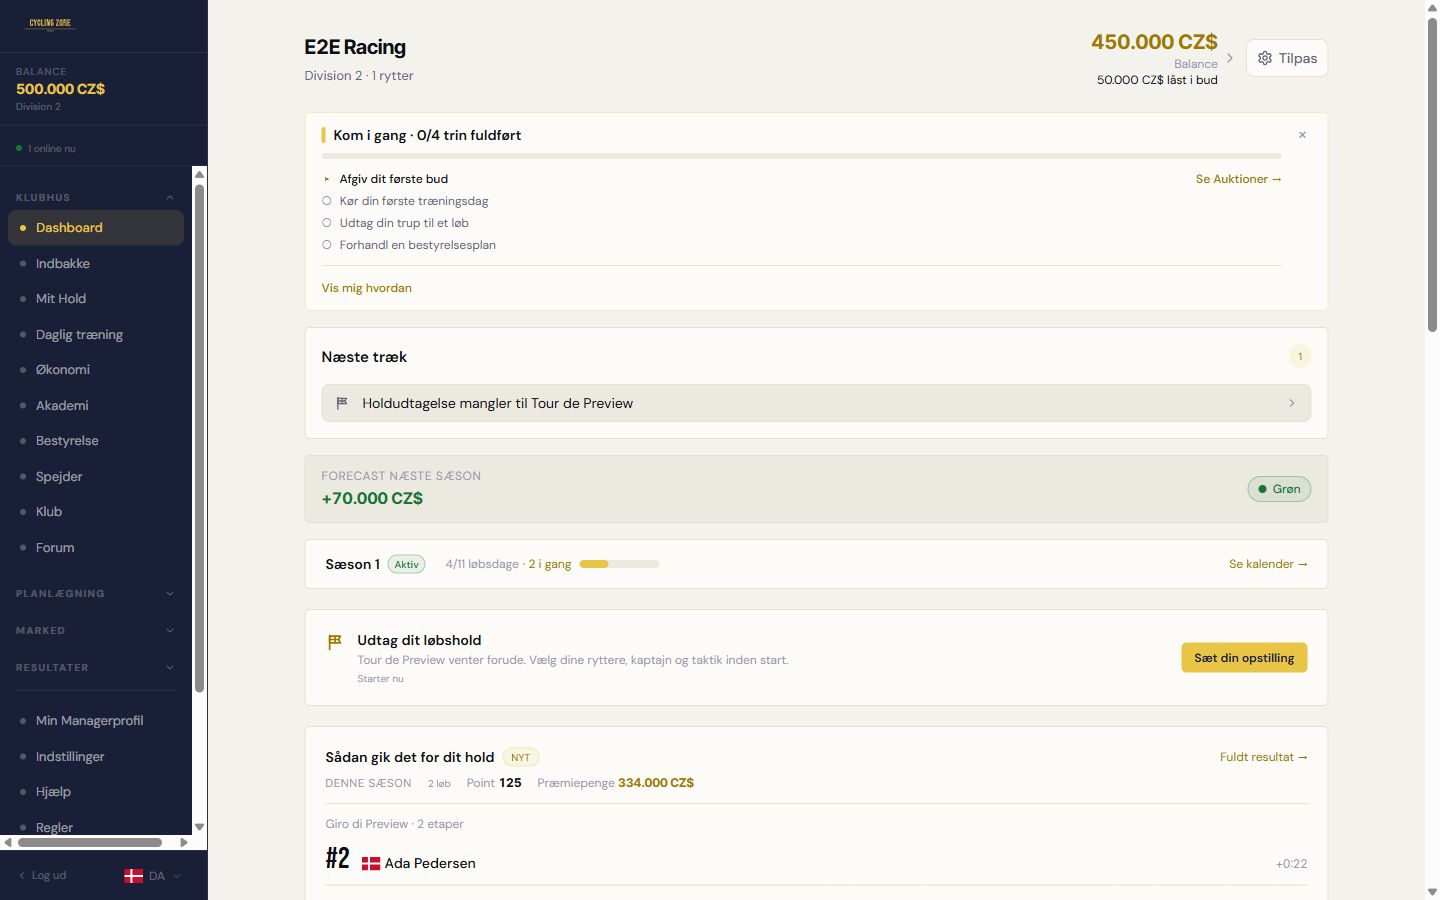
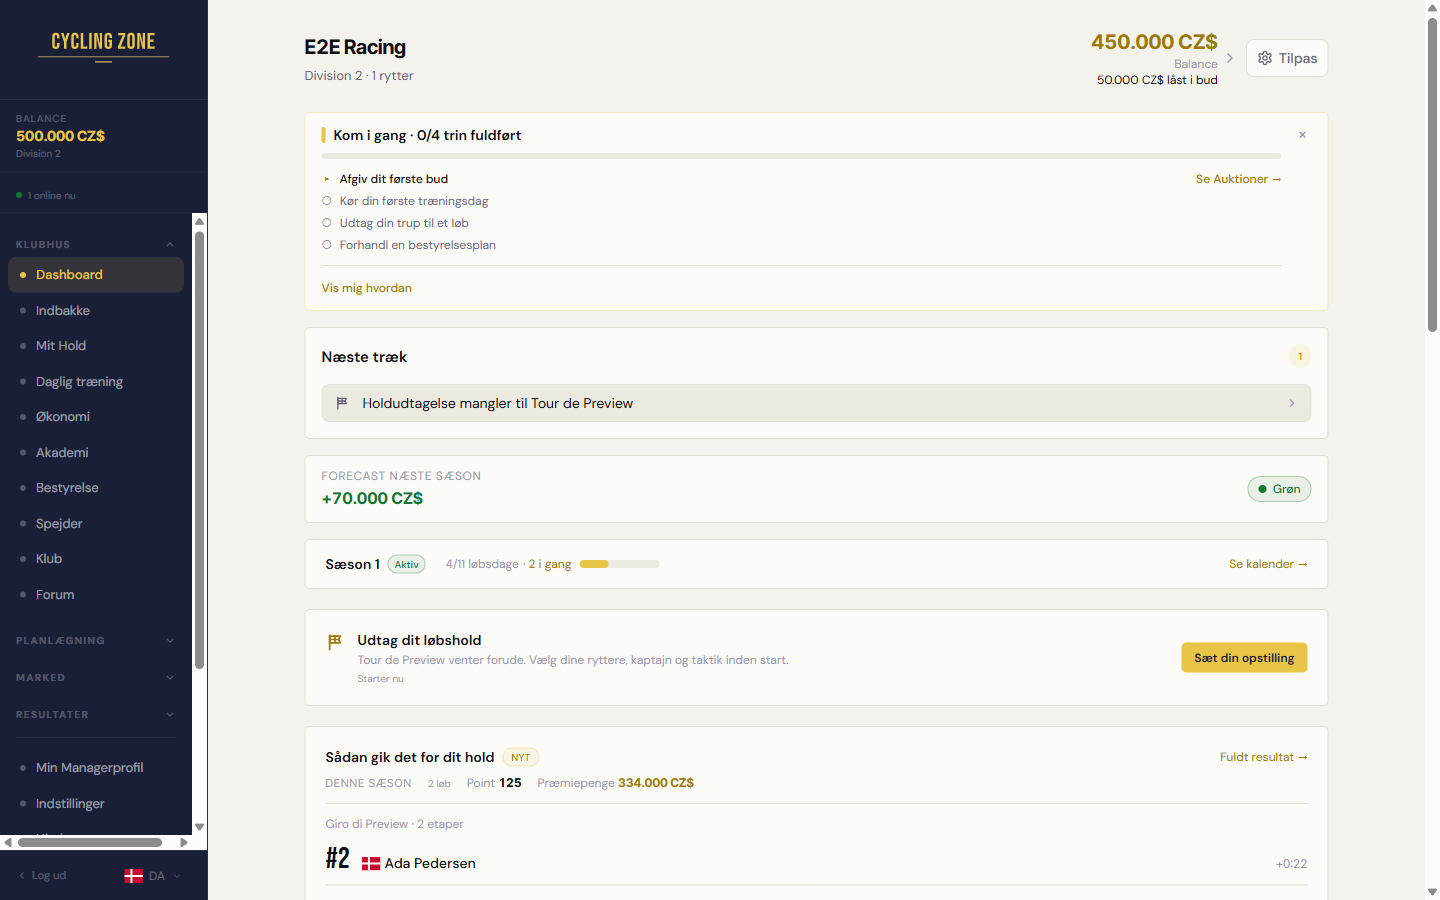
fix(sidebar): skalér wordmarket til fuld headerbredde (ejer-feedback #2181)
Ejer-godkendt variant A (18/8): wordmarket skal fylde headeren, ikke kun
sidde i hjørnet. Skaleret fra fast h-5 til w-full/h-auto, så det fylder
sidebar-kolonnens fulde indholdsbredde minus normal kant-padding
(~3x tidligere størrelse). Venstrestillet (samme px-4 som nav-gruppernes
labels). Ekstra lodret luft (py-4 → py-6) så headeren får vægt.
Pro-/Founder-badget ligger fortsat under wordmarket (mt-2).

SidebarContent er delt mellem desktop-sidebar og mobil-drawer, så begge
er dækket af samme ændring — nye Playwright-screenshots verificerer
begge (pr-screens/2181-sidebar-desktop.png, pr-screens/2181-sidebar-mobile.png).

Holdnavnet er fortsat fjernet fra hjørnet (uændret fra forrige commit).

Refs #2181

diff --git a/frontend/src/components/Layout.jsx b/frontend/src/components/Layout.jsx
@@ -272,19 +272,23 @@ function SidebarContent({ onNav, navigate, team, balance, onlineCount, navGroups
       <button
         onClick={() => navigate("/dashboard")}
         aria-label="Cycling Zone"
-        className="flex items-center gap-2.5 px-4 py-4 border-b border-cz-sidebar-border w-full text-left hover:bg-cz-sidebar-hover transition-colors">
+        className="flex items-center px-4 py-6 border-b border-cz-sidebar-border w-full text-left hover:bg-cz-sidebar-hover transition-colors">
         {/* #671 Slice B: wordmark = primaer brand-mark (BRAND_BRIEF). Det redundante
             CZ-monogram er fjernet — monogram + wordmark + team-navn var tre identitets-
             elementer i samme hjoerne. Sidebar-canvas altid navy → forceDark wordmark.
             #2181: holdnavnet er fjernet fra dette hjørne (det står andre steder på
-            siden) — kun logoet skal være i header-hjørnet, jf. anti-slop-reglen.
-            Bredere nav-header/IA-restructure spores i #1027. */}
-        <div className="min-w-0">
-          <Wordmark forceDark className="h-5 w-auto" alt="" />
+            siden). Ejer-godkendt variant A (18/8): wordmarket fylder headeren i
+            stedet for kun at sidde i hjørnet — skaleret til kolonnens fulde
+            indholdsbredde (w-full/h-auto, ikke den gamle faste h-5) minus normal
+            kant-padding (~3x tidligere størrelse), venstrestillet så det flugter
+            med nav-punkternes indryk, med ekstra lodret luft (py-6) så headeren
+            får vægt. Bredere nav-header/IA-restructure spores i #1027. */}
+        <div className="w-full min-w-0">
+          <Wordmark forceDark className="w-full h-auto" alt="" />
           {/* Founder-badge er permanent status, selv efter subscription-udløb (#1903);
               plain Pro-badge kræver stadig aktiv Pro. */}
           {(isPro || isFounder) && (
-            <div className="mt-1">
+            <div className="mt-2">
               <ProBadge isFounder={isFounder} />
             </div>
           )}
